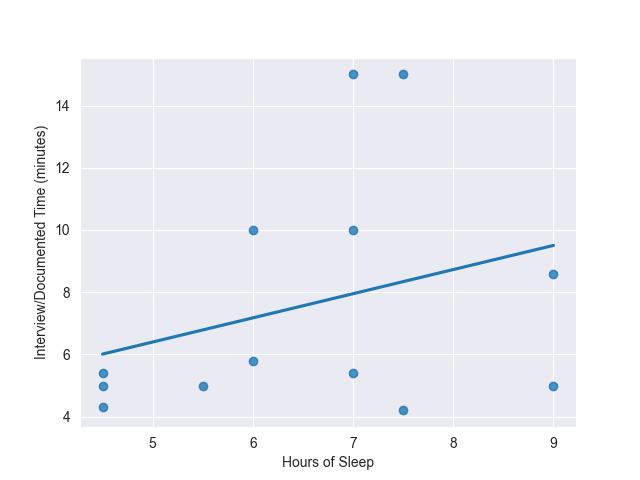
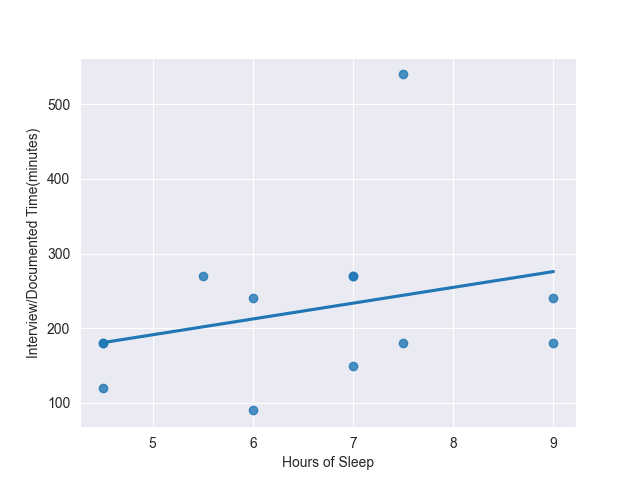
Fixed graphs

diff --git a/IEEE-conference-template-062824/Data_Analysis/Graph.py b/IEEE-conference-template-062824/Data_Analysis/Graph.py
@@ -7,7 +7,7 @@ csv_data = pd.read_csv("data.csv")
 
 def plotData():
     sb.set_style("darkgrid")
-    sb.regplot(x = csv_data["Interview/Documented Time (minutes)"], y = csv_data["Time Played (minutes)"], data = csv_data, ci=None)
+    sb.regplot(x = csv_data["Hours of Sleep"], y = csv_data["Interview/Documented Time(minutes)"], data = csv_data, ci=None)
     plt.show()
 
 
